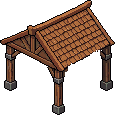
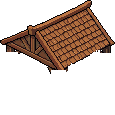
Kuźnia: słupy wiaty osobno (nie zasłaniają kowala przed nimi), piec pod dachem

Changed region(s): [[0.4435, 0.6, 0.5739, 1.0], [0.8609, 0.4435, 0.9913, 0.8087], [0.0261, 0.4435, 0.1565, 0.8087]]

diff --git a/tools/village_life.py b/tools/village_life.py
@@ -94,6 +94,10 @@ def notes():
     sheet.save(os.path.join(OUT, "note.png"))
 
 
+# słupy wiaty kuźni na gotowej grafice 115x115 (lewy, przedni, prawy): (x0, y0, x1, y1), dół = podstawa słupa
+FORGE_POSTS = {"forge_post_l": (3, 52, 18, 91), "forge_post_m": (51, 70, 66, 115), "forge_post_r": (99, 53, 113, 91)}
+
+
 def forge_shed():
     """Wiata kuźni (dach na słupach) z PixelLab bez pieca i kowadła, które narysował pod dachem - gra stawia
     pod nią własny piec, kowadło i beczkę (kowal chodzi między nimi). Wycinamy wszystko pod krawędzią dachu
@@ -114,6 +118,12 @@ def forge_shed():
             for y in range(end + 2, 112):
                 px[x, y] = (0, 0, 0, 0)
     village_props.build("forge_shed", [img], 116 / village_props.GROWTH)
+    # słupy osobno (każdy sortowany wg własnej podstawy - nie zasłania tego, co stoi przed nim), dach bez nich
+    roof = Image.open(os.path.join(OUT, "forge_shed.png")).convert("RGBA")
+    for name, box in FORGE_POSTS.items():
+        roof.crop(box).save(os.path.join(OUT, name + ".png"))
+        roof.paste(Image.new("RGBA", (box[2] - box[0], box[3] - box[1])), box[:2])
+    roof.save(os.path.join(OUT, "forge_shed.png"))
 
 
 def carried():
